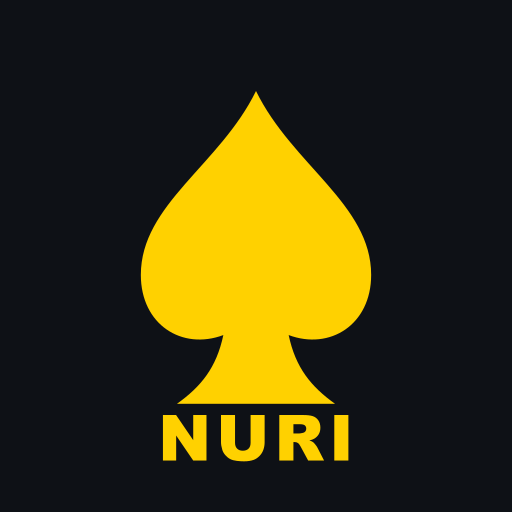
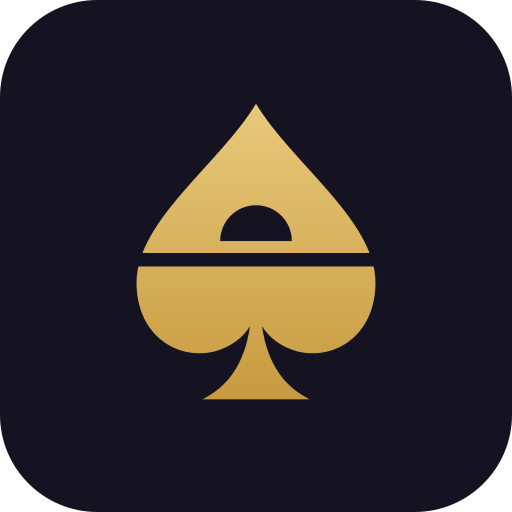
feat: 스페이드 CI 심벌 로고 전면 적용 — 헤더·파비콘·PWA 아이콘·OG
- 헤더: 심벌+워드마크 병치(셸 symbol/use + NuriMark 컴포넌트, 패리티 e2e 4/4)
- scripts/gen-favicons.mjs: sharp 파이프라인 + 픽셀 검증 게이트, 8종 재생성
  (≤64px는 지평선·해 컷 증폭, maskable 안전영역, OG 1200×630 아웃라인 워드)
- manifest theme/background #151221 동조

diff --git a/index.html b/index.html
@@ -93,17 +93,24 @@
       aria-hidden: 일시적 장식이라 보조기기엔 침묵 — React 마운트가 같은 픽셀의 실제 UI 로 교체.
       클래스는 전부 App.tsx 첫 렌더에서 복사(퍼지 안전: 동일 문자열이 소스에 존재).
     --><div aria-hidden="true">
-      <!-- [DS] IMG-1: 워드마크 벡터 심볼(단일 정의) — 테마별 PNG 2장·display 토글 CSS 제거, currentColor 상속 -->
-      <svg style="display:none" aria-hidden="true"><symbol id="nuri-wm" viewBox="0 0 1118 518"><path fill="currentColor" d="M322.24 10L245.26 10L245.26 167.59L242.83 167.59L135.48 10L69.85 10L69.85 303.30L146.82 303.30L146.82 144.90L148.85 144.90L257.82 303.30L322.24 303.30M553.13 10L553.13 191.49C553.13 219.85 532.88 240.10 504.12 240.10C475.76 240.10 455.50 219.85 455.50 191.49L455.50 10L378.53 10L378.53 198.38C378.53 264.82 428.76 306.95 504.12 306.95C579.47 306.95 630.11 264.82 630.11 198.38L630.11 10M686.40 303.30L763.37 303.30L763.37 205.67L793.75 205.67L845.61 303.30L929.47 303.30L869.51 193.52C901.11 178.53 919.74 149.76 919.74 109.25C919.74 47.27 876.80 10 811.17 10L686.40 10M763.37 145.31L763.37 71.58L793.35 71.58C822.52 71.58 839.13 83.33 839.13 109.25C839.13 134.77 822.52 145.31 793.35 145.31M1048.15 10L971.18 10L971.18 303.30L1048.15 303.30M59.42 507.09L95.97 507.09L95.97 452.27L147.33 452.27L147.33 507.09L184.06 507.09L184.06 367.83L147.33 367.83L147.33 422.65L95.97 422.65L95.97 367.83L59.42 367.83M372.05 437.46C372.05 391.10 342.42 365.90 304.73 365.90C266.64 365.90 237.21 391.10 237.21 437.46C237.21 483.62 266.64 509.01 304.73 509.01C342.42 509.01 372.05 483.81 372.05 437.46M334.35 437.46C334.35 463.04 323.77 477.08 304.73 477.08C285.49 477.08 274.91 463.04 274.91 437.46C274.91 411.87 285.49 397.83 304.73 397.83C323.77 397.83 334.35 411.87 334.35 437.46M425.39 507.09L518.67 507.09L518.67 477.46L461.93 477.46L461.93 367.83L425.39 367.83M622.79 507.09C665.30 507.09 692.04 480.93 692.04 437.46C692.04 393.99 665.30 367.83 622.41 367.83L569.90 367.83L569.90 507.09M606.44 475.93L606.44 398.99L620.48 398.99C642.99 398.99 655.11 408.03 655.11 437.46C655.11 466.89 642.99 475.93 621.45 475.93M745.38 507.09L844.63 507.09L844.63 477.46L781.92 477.46L781.92 452.27L839.63 452.27L839.63 422.65L781.92 422.65L781.92 397.45L844.82 397.45L844.82 367.83L745.38 367.83M899.51 367.83L899.51 507.09L935.28 507.09L935.28 424.57L936.44 424.57L967.98 506.12L989.91 506.12L1021.65 425.15L1022.80 425.15L1022.80 507.09L1058.58 507.09L1058.58 367.83L1012.99 367.83L979.91 448.80L978.18 448.80L945.09 367.83"/></symbol></svg>
+      <!-- [DS] IMG-1: 워드마크 벡터 심볼 + NH CI 스페이드 심벌(nuri-mark) 스프라이트.
+           ⚠ display:none 스프라이트는 mask/gradient 리소스를 죽인다(Chromium 실측) — width0·absolute 로 숨김.
+           nuri-mark 는 public/brand/nuri-holdem-symbol.svg 정본과 동일 지오메트리(React 쪽은 NuriMark.tsx). -->
+      <svg width="0" height="0" style="position:absolute" aria-hidden="true"><symbol id="nuri-wm" viewBox="0 0 1118 518"><path fill="currentColor" d="M322.24 10L245.26 10L245.26 167.59L242.83 167.59L135.48 10L69.85 10L69.85 303.30L146.82 303.30L146.82 144.90L148.85 144.90L257.82 303.30L322.24 303.30M553.13 10L553.13 191.49C553.13 219.85 532.88 240.10 504.12 240.10C475.76 240.10 455.50 219.85 455.50 191.49L455.50 10L378.53 10L378.53 198.38C378.53 264.82 428.76 306.95 504.12 306.95C579.47 306.95 630.11 264.82 630.11 198.38L630.11 10M686.40 303.30L763.37 303.30L763.37 205.67L793.75 205.67L845.61 303.30L929.47 303.30L869.51 193.52C901.11 178.53 919.74 149.76 919.74 109.25C919.74 47.27 876.80 10 811.17 10L686.40 10M763.37 145.31L763.37 71.58L793.35 71.58C822.52 71.58 839.13 83.33 839.13 109.25C839.13 134.77 822.52 145.31 793.35 145.31M1048.15 10L971.18 10L971.18 303.30L1048.15 303.30M59.42 507.09L95.97 507.09L95.97 452.27L147.33 452.27L147.33 507.09L184.06 507.09L184.06 367.83L147.33 367.83L147.33 422.65L95.97 422.65L95.97 367.83L59.42 367.83M372.05 437.46C372.05 391.10 342.42 365.90 304.73 365.90C266.64 365.90 237.21 391.10 237.21 437.46C237.21 483.62 266.64 509.01 304.73 509.01C342.42 509.01 372.05 483.81 372.05 437.46M334.35 437.46C334.35 463.04 323.77 477.08 304.73 477.08C285.49 477.08 274.91 463.04 274.91 437.46C274.91 411.87 285.49 397.83 304.73 397.83C323.77 397.83 334.35 411.87 334.35 437.46M425.39 507.09L518.67 507.09L518.67 477.46L461.93 477.46L461.93 367.83L425.39 367.83M622.79 507.09C665.30 507.09 692.04 480.93 692.04 437.46C692.04 393.99 665.30 367.83 622.41 367.83L569.90 367.83L569.90 507.09M606.44 475.93L606.44 398.99L620.48 398.99C642.99 398.99 655.11 408.03 655.11 437.46C655.11 466.89 642.99 475.93 621.45 475.93M745.38 507.09L844.63 507.09L844.63 477.46L781.92 477.46L781.92 452.27L839.63 452.27L839.63 422.65L781.92 422.65L781.92 397.45L844.82 397.45L844.82 367.83L745.38 367.83M899.51 367.83L899.51 507.09L935.28 507.09L935.28 424.57L936.44 424.57L967.98 506.12L989.91 506.12L1021.65 425.15L1022.80 425.15L1022.80 507.09L1058.58 507.09L1058.58 367.83L1012.99 367.83L979.91 448.80L978.18 448.80L945.09 367.83"/></symbol><symbol id="nuri-mark" viewBox="0 0 240 240"><defs><linearGradient id="nuriMarkGold" x1="0" y1="0" x2="0" y2="1"><stop offset="0" stop-color="#E8C97C"/><stop offset="1" stop-color="#C79A3F"/></linearGradient><mask id="nuriMarkCut"><rect width="240" height="240" fill="#fff"/><rect x="28" y="118" width="184" height="9" rx="4.5" fill="#000"/><path d="M 96 110 A 24 24 0 0 1 144 110 L 96 110 Z" fill="#000"/></mask></defs><g mask="url(#nuriMarkCut)"><path fill="url(#nuriMarkGold)" d="M 120 18 C 96 58 40 96 40 138 C 40 172 66 190 92 184 C 103 181 111 175 116 167 C 112 194 100 208 84 216 L 156 216 C 140 208 128 194 124 167 C 129 175 137 181 148 184 C 174 190 200 172 200 138 C 200 96 144 58 120 18 Z"/></g></symbol></svg>
       <header class="sticky top-0 z-50 bg-surface-base border-b border-border-subtle pt-[env(safe-area-inset-top)]">
         <div class="flex items-center justify-between px-page-x h-header-h">
           <div class="lg:hidden flex min-w-0 items-center gap-2">
-            <svg class="h-7 w-auto text-ink-primary"><use href="#nuri-wm"/></svg>
+            <span class="flex shrink-0 items-center gap-1.5">
+              <svg class="h-6 w-6 shrink-0" viewBox="0 0 240 240"><use href="#nuri-mark"/></svg>
+              <!-- viewBox 필수: 없으면 w-auto 가 SVG 기본폭 300px 로 계산돼 우측 타이틀을 밀어낸다 -->
+              <svg class="h-7 w-auto text-ink-primary" viewBox="0 0 1118 518"><use href="#nuri-wm"/></svg>
+            </span>
             <span class="h-4 w-px shrink-0 bg-border-default"></span>
             <span class="min-w-0 truncate text-base font-extrabold tracking-tight text-ink-primary">홈</span>
           </div>
-          <div class="hidden lg:block">
-            <svg class="h-8 w-auto text-ink-primary"><use href="#nuri-wm"/></svg>
+          <div class="hidden lg:flex items-center gap-1.5">
+            <svg class="h-6 w-6 shrink-0" viewBox="0 0 240 240"><use href="#nuri-mark"/></svg>
+            <svg class="h-8 w-auto text-ink-primary" viewBox="0 0 1118 518"><use href="#nuri-wm"/></svg>
           </div>
           <div class="flex items-center gap-0.5">
             <span class="w-9 h-9 flex items-center justify-center rounded-full text-ink-secondary">

diff --git a/src/components/atoms/NuriMark.tsx b/src/components/atoms/NuriMark.tsx
@@ -1,0 +1,39 @@
+/**
+ * NuriMark — NH CI 스페이드 심벌(정본: public/brand/nuri-holdem-symbol.svg 와 동일 지오메트리).
+ * 골드 그라디언트 스페이드 + 지평선·떠오르는 해 네거티브 스페이스(mask).
+ * ⚠ mask/gradient 는 display:none 조상 아래에서 리소스가 죽는다(Chromium 실측) — 그래서
+ *   인스턴스마다 defs 를 자체 포함하고, 같은 화면에 복수 렌더(모바일/PC 헤더)돼도 참조가
+ *   섞이지 않게 uid 로 id 를 분리한다. 정적 셸(index.html <symbol id="nuri-mark">)과 동일 픽셀 —
+ *   형태를 바꾸면 셸 스프라이트·scripts/gen-favicons.mjs 도 함께 갱신할 것.
+ */
+interface NuriMarkProps {
+  className?: string;
+  /** 같은 문서에 복수 인스턴스가 있을 때 SVG id 충돌 방지용 접미사 */
+  uid?: string;
+}
+
+export default function NuriMark({ className = '', uid = '' }: NuriMarkProps) {
+  const gold = `nuri-mark-gold${uid ? `-${uid}` : ''}`;
+  const cut = `nuri-mark-cut${uid ? `-${uid}` : ''}`;
+  return (
+    <svg viewBox="0 0 240 240" className={className} aria-hidden="true" focusable="false">
+      <defs>
+        <linearGradient id={gold} x1="0" y1="0" x2="0" y2="1">
+          <stop offset="0" stopColor="#E8C97C" />
+          <stop offset="1" stopColor="#C79A3F" />
+        </linearGradient>
+        <mask id={cut}>
+          <rect width="240" height="240" fill="#fff" />
+          <rect x="28" y="118" width="184" height="9" rx="4.5" fill="#000" />
+          <path d="M 96 110 A 24 24 0 0 1 144 110 L 96 110 Z" fill="#000" />
+        </mask>
+      </defs>
+      <g mask={`url(#${cut})`}>
+        <path
+          fill={`url(#${gold})`}
+          d="M 120 18 C 96 58 40 96 40 138 C 40 172 66 190 92 184 C 103 181 111 175 116 167 C 112 194 100 208 84 216 L 156 216 C 140 208 128 194 124 167 C 129 175 137 181 148 184 C 174 190 200 172 200 138 C 200 96 144 58 120 18 Z"
+        />
+      </g>
+    </svg>
+  );
+}
